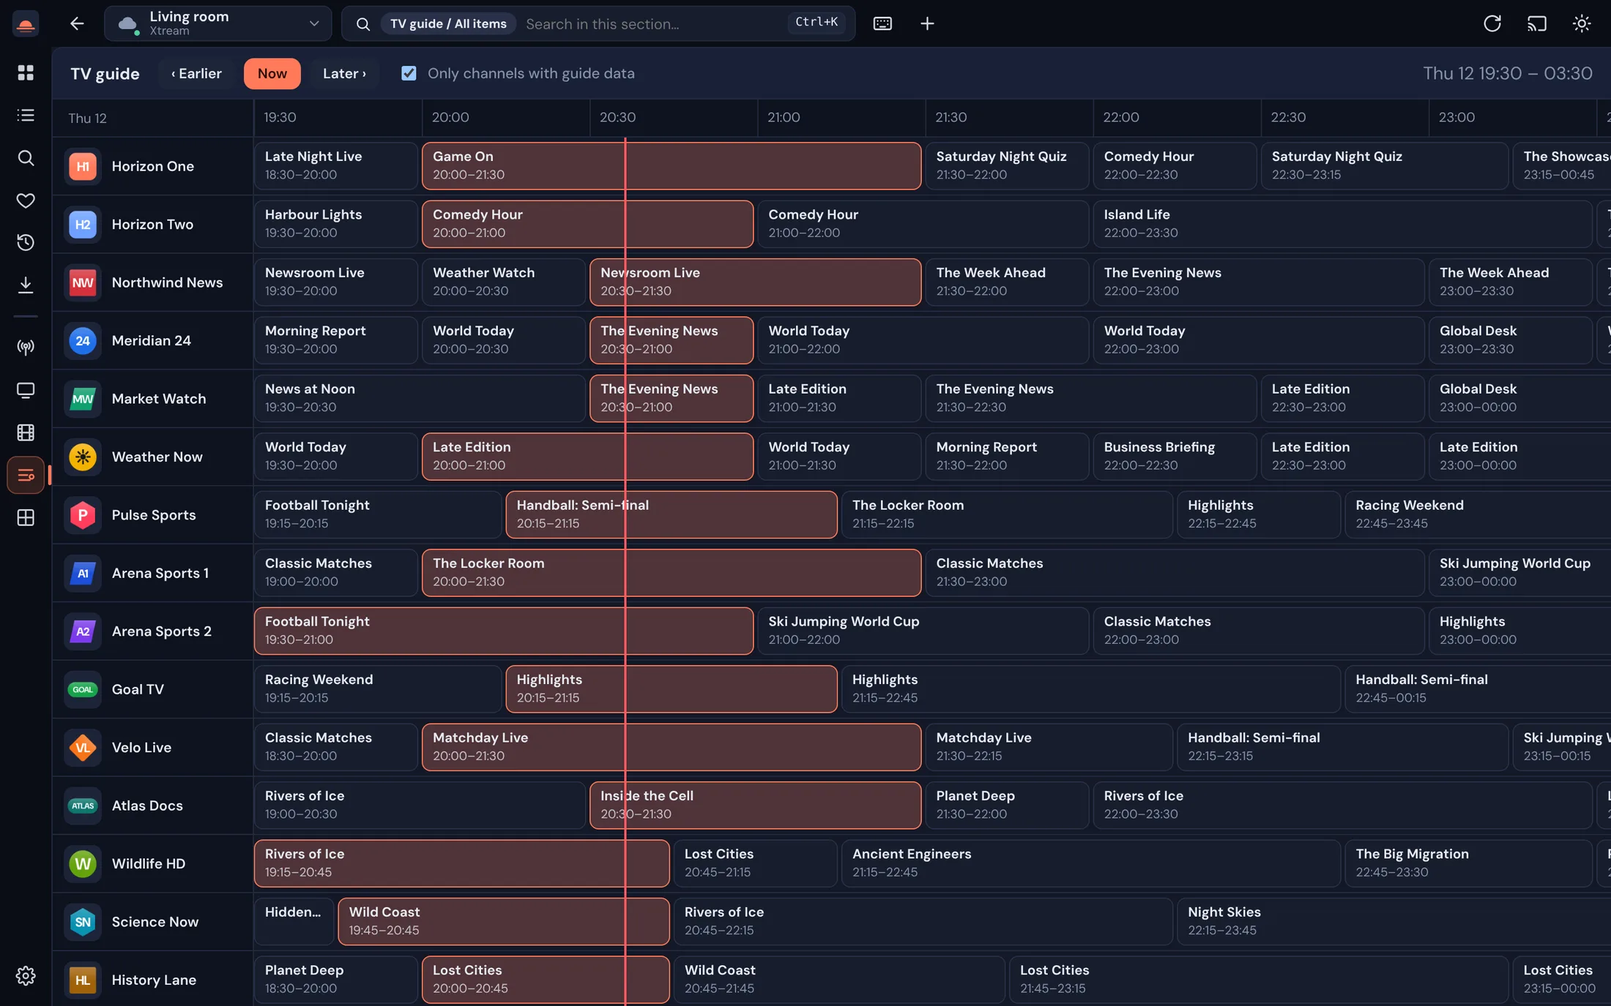
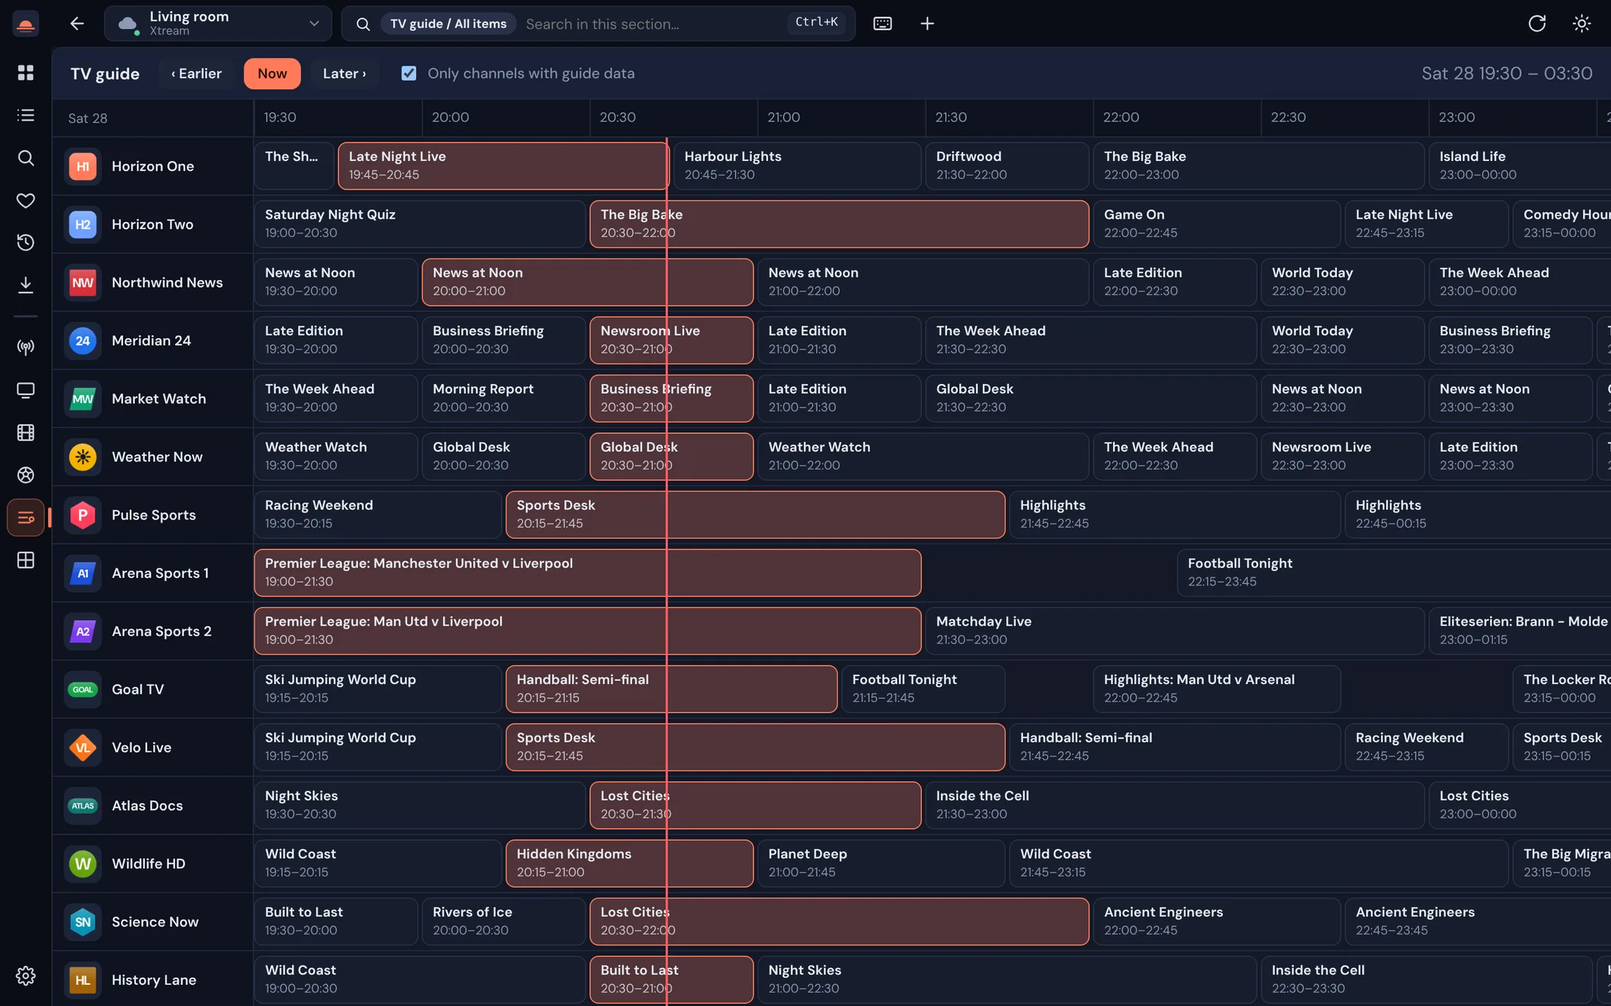
No more IPTVnator; README and the website for the Football page, the TV app and the time format; new screenshots
- README: the Football page (how it finds matches, their channels, replays), the TV's start screen, 24/12-hour clock.
- Website: a Football section and menu link, the matches in the intro and the share picture, cards for the TV app
  and picture-in-picture; every screenshot taken again with the app as it is now (the demo guide has a few matches).
- Football: a match's airings on several channels are one row whatever each channel calls it; a later match that
  says it is live is kept among the matches.

diff --git a/docs/index.html b/docs/index.html
@@ -4,11 +4,11 @@
   <meta charset="utf-8">
   <meta name="viewport" content="width=device-width, initial-scale=1">
   <title>AG Horizon – a calm desktop player for your IPTV playlists</title>
-  <meta name="description" content="Live TV with a real programme guide, movies and series with posters and resume, multi view and picture mirroring. Free for Windows, macOS, Linux and Android TV. Works with your own Xtream Codes or M3U playlists.">
+  <meta name="description" content="Live TV with a real programme guide, movies and series with posters and resume, your football team's matches, multi view and picture mirroring. Free for Windows, macOS, Linux and Android TV. Works with your own Xtream Codes or M3U playlists.">
   <meta name="theme-color" content="#0b1220">
   <meta property="og:type" content="website">
   <meta property="og:title" content="AG Horizon – a calm desktop player for your IPTV playlists">
-  <meta property="og:description" content="Live TV with a real guide, movies and series, multi view and picture mirroring. Free for Windows, macOS, Linux and Android TV.">
+  <meta property="og:description" content="Live TV with a real guide, movies and series, your team's matches, multi view and picture mirroring. Free for Windows, macOS, Linux and Android TV.">
   <meta property="og:image" content="https://andreas-graesmo.github.io/AGHorizon/img/og.png">
   <meta property="og:url" content="https://andreas-graesmo.github.io/AGHorizon/">
   <meta name="twitter:card" content="summary_large_image">
@@ -24,6 +24,7 @@
       <nav class="nav-links" aria-label="Main">
         <a href="#live">Live TV</a>
         <a href="#library">Movies &amp; series</a>
+        <a href="#football">Football</a>
         <a href="#multiview">Multi view</a>
         <a href="#sync">Sync</a>
         <a href="#faq">FAQ</a>
@@ -38,7 +39,7 @@
       <div class="wrap hero-copy">
         <p class="eyebrow">Free for Windows, macOS, Linux &amp; Android TV</p>
         <h1>All your TV.<br><span>One calm place.</span></h1>
-        <p class="lede">AG Horizon turns your Xtream Codes or M3U playlist into a proper TV experience: live channels with a real programme guide, movies and series with posters and “Resume”, four pictures at once, and picture mirroring.</p>
+        <p class="lede">AG Horizon turns your Xtream Codes or M3U playlist into a proper TV experience: live channels with a real programme guide, movies and series with posters and “Resume”, your football team’s matches, four pictures at once, and picture mirroring.</p>
         <div class="cta">
           <a class="btn btn-primary" id="dlMain" href="https://github.com/Andreas-Graesmo/AGHorizon/releases/latest">
             <svg class="i" aria-hidden="true"><use href="#i-download"/></svg><span id="dlMainLabel">Download AG Horizon</span>
@@ -93,6 +94,23 @@
           </ul>
         </div>
         <figure class="shot"><img src="img/guide.webp" width="2200" height="1375" loading="lazy" alt="The TV guide: a grid of channels and their programmes through the evening, with a red line marking the current time"></figure>
+      </div>
+    </section>
+
+    <!-- ───────────── football ───────────── -->
+    <section class="feature" id="football">
+      <div class="wrap feature-in">
+        <div class="copy">
+          <p class="eyebrow">Football</p>
+          <h2>Never miss your team.</h2>
+          <p>Pick your teams and AG Horizon finds their matches in your guide and your channels: what’s on now, what’s coming up, and every channel showing it. One button and you’re watching.</p>
+          <ul class="ticks">
+            <li>Knows every name a team goes by: Man Utd, MUFC, “MUN v LIV”…</li>
+            <li>The same match on five channels is one row, with a button for each</li>
+            <li>Replays and highlights kept apart from the real thing</li>
+          </ul>
+        </div>
+        <figure class="shot"><img src="img/football.webp" width="2200" height="1375" loading="lazy" alt="The Football page: Manchester United live on two channels now, an FA Cup match tomorrow, highlights kept apart, and Brann – Molde later tonight"></figure>
       </div>
     </section>
 
@@ -160,6 +178,11 @@
             <p>Send the picture to a TV or another monitor. It mirrors the decoded picture, so it uses no extra connection and stays in sync.</p>
           </article>
           <article class="card">
+            <svg class="ci" aria-hidden="true"><use href="#i-pip"/></svg>
+            <h3>Picture-in-picture</h3>
+            <p>Keep the match in a small window on top of everything else while you work, and click back to the full player.</p>
+          </article>
+          <article class="card">
             <svg class="ci" aria-hidden="true"><use href="#i-chip"/></svg>
             <h3>Plays the awkward ones</h3>
             <p>HEVC video or DTS / AC-3 sound that won’t play? Compatibility mode converts it on the fly with the built-in ffmpeg.</p>
@@ -174,6 +197,11 @@
             <svg class="ci" aria-hidden="true"><use href="#i-cc"/></svg>
             <h3>Subtitles</h3>
             <p>Built-in subtitle tracks, or find them on OpenSubtitles.com right from the player.</p>
+          </article>
+          <article class="card">
+            <svg class="ci" aria-hidden="true"><use href="#i-tv"/></svg>
+            <h3>On the TV too</h3>
+            <p>The same app on Android TV, made for the remote. It plays in the TV’s own player, with its hardware decoders, and the sun rises as it starts.</p>
           </article>
           <article class="card">
             <svg class="ci" aria-hidden="true"><use href="#i-list"/></svg>
@@ -300,6 +328,7 @@
   <svg width="0" height="0" style="position:absolute" aria-hidden="true">
     <symbol id="i-download" viewBox="0 0 24 24"><path d="M12 3v12m0 0-5-5m5 5 5-5M4 20h16" fill="none" stroke="currentColor" stroke-width="2" stroke-linecap="round" stroke-linejoin="round"/></symbol>
     <symbol id="i-screens" viewBox="0 0 24 24"><path d="M7 6V5a2 2 0 0 1 2-2h11a2 2 0 0 1 2 2v7a2 2 0 0 1-2 2h-1M4 9h10a2 2 0 0 1 2 2v5a2 2 0 0 1-2 2H4a2 2 0 0 1-2-2v-5a2 2 0 0 1 2-2ZM6 21.5h6M9 18v3.5" fill="none" stroke="currentColor" stroke-width="2" stroke-linecap="round" stroke-linejoin="round"/></symbol>
+    <symbol id="i-pip" viewBox="0 0 24 24"><path d="M21 11V6a2 2 0 0 0-2-2H5a2 2 0 0 0-2 2v12a2 2 0 0 0 2 2h6" fill="none" stroke="currentColor" stroke-width="1.8" stroke-linecap="round" stroke-linejoin="round"/><rect x="13.5" y="13.5" width="8" height="6" rx="1.2" fill="none" stroke="currentColor" stroke-width="1.8"/></symbol>
     <symbol id="i-chip" viewBox="0 0 24 24"><path d="M7 4h10a3 3 0 0 1 3 3v10a3 3 0 0 1-3 3H7a3 3 0 0 1-3-3V7a3 3 0 0 1 3-3Zm2 5h6v6H9zM9 1v3m6-3v3M9 20v3m6-3v3M1 9h3m-3 6h3m16-6h3m-3 6h3" fill="none" stroke="currentColor" stroke-width="2" stroke-linecap="round" stroke-linejoin="round"/></symbol>
     <symbol id="i-cc" viewBox="0 0 24 24"><path d="M4 5h16a2 2 0 0 1 2 2v10a2 2 0 0 1-2 2H4a2 2 0 0 1-2-2V7a2 2 0 0 1 2-2Zm6.5 5.5a2.5 2.5 0 1 0 0 3m7-3a2.5 2.5 0 1 0 0 3" fill="none" stroke="currentColor" stroke-width="2" stroke-linecap="round" stroke-linejoin="round"/></symbol>
     <symbol id="i-list" viewBox="0 0 24 24"><path d="M8 6h13M8 12h13M8 18h13M3 6h.01M3 12h.01M3 18h.01" fill="none" stroke="currentColor" stroke-width="2" stroke-linecap="round"/></symbol>

diff --git a/public/js/football-core.js b/public/js/football-core.js
@@ -262,8 +262,8 @@ function fbSplitReplays(rows) {
 
 // For one team: a team plays one match at a time, and at most one in the guide's day and a half. So its match is
 // one stretch of time: the airings that overlap (the same match starts at 15:00 on one channel and 15:30 on
-// another, with a different build-up), between the same teams. The stretch is the one said to be live, else the one
-// on the most channels at once (a live match is carried widely; a replay mostly by one channel). Everything else
+// another, with a different build-up), between the same teams: the stretch on the most channels at once (a live
+// match is carried widely; a replay mostly by one channel); and any other airing that says it is live. Everything else
 // about the team is apart: replays (said so, a club's channel, a short slot, another day or opponent) and shows
 // (a studio, a magazine: no match in the title).
 // -> { main: rows, replays: rows }
@@ -287,15 +287,25 @@ function fbSplitTeam(rows, team) {
     for (const x of cands.slice(i, j)) {
       const k = byKey.get(x.key) || { xs: [], score: 0 };
       k.xs.push(x);
-      k.score += (x.live ? 1000 : 0) + x.r.chs.length;
+      k.score += x.r.chs.length;   // (an airing that says it is live is added below, whatever this picks)
       byKey.set(x.key, k);
     }
     for (const k of byKey.values()) if (k.score > bestScore) { bestScore = k.score; best = k.xs; }
     i = j;
   }
   const main = new Set(best || []);
-  const out = { main: [], replays: [] };
-  for (const x of info) (main.has(x) ? out.main : out.replays).push(x.r);
+  // a match that says it is live is a match too (the next one, on another day; a replay rarely says so)
+  for (const x of cands) if (x.live && !main.has(x)) main.add(x);
+  // one row per match: its airings together, whatever each channel calls it ("Manchester United v Liverpool",
+  // "Man Utd v Liverpool"), from the first one's start
+  const merged = new Map();
+  for (const x of [...main].sort((a, b) => a.r.p[0] - b.r.p[0])) {
+    const key = [...merged.keys()].find((k) => k.key === x.key && x.r.p[0] < k.end) ;
+    if (key) { const m = merged.get(key); for (const c of x.r.chs) if (!m.chs.includes(c)) m.chs.push(c); key.end = Math.max(key.end, x.r.p[1]); }
+    else merged.set({ key: x.key, end: x.r.p[1] }, { p: x.r.p, chs: [...x.r.chs] });
+  }
+  const out = { main: [...merged.values()], replays: [] };
+  for (const x of info) if (!main.has(x)) out.replays.push(x.r);
   return out;
 }
 

diff --git a/scripts/screenshots/capture.js b/scripts/screenshots/capture.js
@@ -202,6 +202,17 @@ async function main(only) {
       await save(page, 'multiview');
       await ctx.close();
     },
+    async football() {
+      const { page, ctx } = await open({ 'tuner.fbTeams': ['man-utd', 'brann'] });
+      await hideCursor(page);
+      await page.evaluate(() => openWorkspace('demo', 'live'));
+      await page.waitForFunction(() => state.epgState.demo === 'ready', null, { timeout: 30000 });
+      await page.evaluate(() => go('football'));
+      await page.waitForFunction(() => document.querySelectorAll('.fb-row').length >= 3, null, { timeout: 30000 });
+      await settle(page, 800);
+      await save(page, 'football');
+      await ctx.close();
+    },
     async light() {
       const { page, ctx } = await open({ 'tuner.theme': 'light', 'tuner.lightPalette': 'bright', 'tuner.accent': 'blue' });
       await hideCursor(page);
@@ -229,7 +240,7 @@ async function main(only) {
       p { font-size: 22px; color: #c3cbdc; margin: 22px 0 0; line-height: 1.4; }
       .s { position: absolute; left: 580px; top: 92px; width: 860px; border-radius: 14px; box-shadow: 0 30px 80px rgba(0,0,0,.7), 0 0 0 1px rgba(255,255,255,.1); }
     </style></head><body><div class="t"><div class="b"><img src="icon.svg">AG Horizon</div>
-      <h1>All your TV.<br><span>One calm place.</span></h1><p>Live TV with a real guide, movies and series, multi view. Free for Windows, macOS &amp; Linux.</p></div>
+      <h1>All your TV.<br><span>One calm place.</span></h1><p>Live TV with a real guide, movies and series, your team’s matches. Free for Windows, macOS, Linux &amp; Android TV.</p></div>
       <img class="s" src="img/dashboard.webp"></body></html>`);
     await page.goto('file://' + path.join(docs, '.og.html'));
     await page.evaluate(() => document.fonts.ready);

diff --git a/scripts/screenshots/demo-server.js b/scripts/screenshots/demo-server.js
@@ -32,8 +32,25 @@ function schedule(chIndex) {
     out.push({ start: t, stop: t + len * 60e3, title: shows[Math.floor(r() * shows.length)], desc: SHOW_DESC[Math.floor(r() * SHOW_DESC.length)], ch: name });
     t += len * 60e3;
   }
+  // a few real matches on the sports channels, for the Football page: one on now (on two channels), one later, highlights
+  const m = MATCHES[name];
+  if (m) {
+    const hour = Math.floor(Date.now() / 3600e3) * 3600e3;
+    for (const [from, mins, title, desc] of m) {
+      const a = hour + from * 3600e3, b = a + mins * 60e3;
+      for (let i = out.length - 1; i >= 0; i--) if (out[i].start < b && out[i].stop > a) out.splice(i, 1);
+      out.push({ start: a, stop: b, title, desc, ch: name });
+    }
+    out.sort((x, y) => x.start - y.start);
+  }
   return out;
 }
+const MATCHES = {
+  'Arena Sports 1': [[-1, 150, 'Premier League: Manchester United v Liverpool', 'Live coverage from Old Trafford.']],
+  'Arena Sports 2': [[-1, 150, 'Premier League: Man Utd v Liverpool', 'Live: the big match of the weekend.'], [3, 135, 'Eliteserien: Brann - Molde', 'Direkte fra Brann Stadion.']],
+  'Goal TV': [[2, 45, 'Highlights: Man Utd v Arsenal', 'The goals and the talking points.']],
+  'Pulse Sports': [[20, 120, 'FA Cup: Chelsea v Manchester United', 'Live coverage of the fourth round.']],
+};
 const xmlTime = (ms) => new Date(ms).toISOString().replace(/[-:T]/g, '').slice(0, 14) + ' +0000';
 const xesc = (s) => String(s).replace(/[&<>"]/g, (c) => ({ '&': '&amp;', '<': '&lt;', '>': '&gt;', '"': '&quot;' }[c]));
 

diff --git a/docs/style.css b/docs/style.css
@@ -117,7 +117,7 @@ code { font: .9em ui-monospace, SFMono-Regular, Menlo, Consolas, monospace; back
 .codec { display: flex; flex-wrap: wrap; gap: 6px; align-items: center; font-size: 13px !important; }
 .codec span { font-weight: 700; color: var(--text); background: var(--deep); border: 1px solid var(--line); padding: 2px 8px; border-radius: 6px; }
 .codec span:nth-child(2n) { color: var(--accent); }
-.card-light { padding: 0; overflow: hidden; grid-column: span 2; display: flex; }
+.card-light { padding: 0; overflow: hidden; grid-column: 1 / -1; display: flex; }   /* under the nine small cards, across */
 .card-light img { width: 100%; height: 100%; object-fit: cover; object-position: top left; }
 .swatches { display: flex; flex-wrap: wrap; gap: 10px; margin-top: 16px; }
 .swatches button { width: 30px; height: 30px; border-radius: 50%; border: 0; background: var(--c); cursor: pointer; box-shadow: 0 0 0 2px var(--panel), 0 0 0 2px transparent; transition: box-shadow .2s, transform .15s; }
@@ -179,7 +179,7 @@ details p { color: #c3cbdc; padding: 0 0 22px; }
   .feature-in, .feature.flip .feature-in { grid-template-columns: 1fr; }
   .feature.flip .copy { order: 0; }
   .cards { grid-template-columns: 1fr 1fr; }
-  .card-light { grid-column: span 2; }
+  .card-light { grid-column: 1 / -1; }
   .platforms { grid-template-columns: 1fr; }
 }
 @media (max-width: 720px) {

diff --git a/test/football.test.js b/test/football.test.js
@@ -123,6 +123,10 @@ test("a team's match: one stretch of time, whatever the channel's build-up; the 
     row(Date.parse('2026-11-29T07:00:00Z'), Date.parse('2026-11-29T09:00:00Z'), 'Fudbal – Liga šampiona: Sporting – Manchester United', 'Na predlog francuskog novinara…'),
     row(Date.parse('2026-11-29T13:40:00Z'), Date.parse('2026-11-29T15:35:00Z'), 'Fussball: Sporting Clube de Portugal – Manchester United', 'UEFA Champions League, 5. Spieltag – Deutsch.'),
   ], mu);
-  assert.deepStrictEqual(s.main.map((r) => r.p[2]), ['Fudbal – Engleska liga: Manchester United – Brentford', 'Manchester United vs Brentford – English Premier League 2026/27']);
+  // one row: the two airings of the match together, with both channels
+  assert.deepStrictEqual(s.main.map((r) => [r.p[2], r.chs.length]), [['Fudbal – Engleska liga: Manchester United – Brentford', 3]]);
   assert.strictEqual(s.replays.length, 5);
+  // a later match that says it is live is a match too
+  const s2 = fbSplitTeam([row(at(15, 0), at(17, 0), 'Man Utd v Brentford', ''), row(Date.parse('2026-11-29T16:00:00Z'), Date.parse('2026-11-29T18:00:00Z'), 'FA Cup: Chelsea v Manchester United', 'Live coverage of the fourth round.')], mu);
+  assert.strictEqual(s2.main.length, 2);
 });

diff --git a/public/style.css b/public/style.css
@@ -1,4 +1,4 @@
-/* AG Horizon – styles. IPTVnator-inspired: near-black chrome, navy surfaces, one accent colour (set from JS). */
+/* AG Horizon – styles: near-black chrome, navy surfaces, one accent colour (set from JS). */
 
 /* DM Sans, bundled (SIL Open Font License, fonts/OFL.txt): Google Fonts' latin and latin-ext files, so start-up doesn't wait for the internet */
 @font-face { font-family: 'DM Sans'; font-style: normal; font-weight: 400 800; font-display: swap; src: url(fonts/dm-sans-latin-ext.woff2) format('woff2');

diff --git a/README.md b/README.md
@@ -1,16 +1,17 @@
 # AG Horizon
 
-A desktop IPTV player (Windows, macOS, Linux) built with Tauri (from 3.1; 2.x was built with Electron), laid out like IPTVnator. It also runs on **Android TV**, steered with the remote (see [Android TV](#android-tv)).
+A desktop IPTV player (Windows, macOS, Linux) built with Tauri (from 3.1; 2.x was built with Electron). It also runs on **Android TV**, steered with the remote (see [Android TV](#android-tv)).
 
 - **Dashboard** with a large slideshow, *Trending this week* (from TMDB, matched to your playlists), live channels on your favorites, and what you watched recently
 - **Live TV** – channel list (All / Groups / Favorites, numbers, search), the player, and a programme-guide column for the channel you watch; plus a full TV-guide grid
-- **Movies and series** – category list with poster grids, sorting, detail pages with plot, cast, seasons and episodes, "Resume", auto-play of the next episode
+- **Movies and series** – category list with poster grids, sorting, detail pages with plot, cast (with photos and sharp posters from TMDB), seasons and episodes, "Resume", auto-play of the next episode
+- **Football** – pick your teams and see their matches from the TV guide and the channel names: what's on now, what's coming up, and the channels showing it (see below)
 - **Several playlists** – Xtream Codes (server + login, or paste a `get.php?username=…&password=…` link), M3U/M3U8 by URL or file; drag an `.m3u` file onto the window to add it
 - **Mirror picture** – show the same picture onto another monitor or TV (see below)
 - **Compatibility mode** – HEVC video and DTS / AC-3 audio are converted on the fly with ffmpeg
 - **Audio language and subtitles** – switch between a video's languages, with a preferred language for each (see below)
 - **Sync between computers** – Recently viewed, where you stopped and favorites, end-to-end encrypted with a sync code (see below)
-- Favorites and recently viewed across playlists, global search, command palette (**Ctrl K**), light / dark theme with accent colours, mini player that keeps playing while you browse
+- Favorites and recently viewed across playlists, global search, command palette (**Ctrl K**), light / dark theme with accent colours, 24- or 12-hour clock, mini player that keeps playing while you browse
 - Keyboard: press **?** in the app for the full list
 
 ## Download
@@ -35,7 +36,7 @@ Building from source and publishing releases: see [RELEASING.md](RELEASING.md).
 
 ## Android TV
 
-The same app on a TV: Android TV and Google TV boxes and sets with Android 7 or newer. (Fire TV runs Android apps too, but the app hasn't been tried there.) It has the dashboard, Live TV with the guide, movies and series, favorites, recently viewed, search, several playlists and sync (AG Horizon cloud).
+The same app on a TV: Android TV and Google TV boxes and sets with Android 7 or newer. (Fire TV runs Android apps too, but the app hasn't been tried there.) It has the dashboard, Live TV with the guide, movies and series, the Football page, favorites, recently viewed, search, several playlists and sync (AG Horizon cloud). It opens with the AG Horizon sun rising over the horizon while it starts.
 
 **Installing.** Download `AG-Horizon-TV-<version>.apk` from the [releases page](https://github.com/Andreas-Graesmo/AGHorizon/releases/latest) and install it on the TV. The usual ways: the *Downloader* app on the TV (type the address of the file), *Send files to TV* from a phone, or `adb install` from a computer. The TV asks once whether that app may install apps. After that the app updates itself: it tells you when there is a new version, downloads it, and hands it to Android's installer, which asks you once more (**Settings › About & updates**). Your playlists, favorites and history are kept.
 
@@ -58,6 +59,17 @@ The same app on a TV: Android TV and Google TV boxes and sets with Android 7 or 
 **Size.** **Settings › Appearance › Size** makes everything larger or smaller.
 
 **If pages look wrong** (missing colours, broken layout), the TV's *Android System WebView* is old: the app needs version 111 or newer. Update it in the TV's app store.
+
+## Football
+
+The ball in the left rail (under Live TV, Series and Movies) opens your teams' matches.
+
+- **Your teams:** pick as many as you like, from England, Norway, Spain, Italy, Germany, France and the national teams. Each gets its own part of the page: the channels named after a match first, then what's **on now**, what's **coming up**, and apart from those, **replays, highlights and shows**.
+- **Where it looks:** the TV guide of your playlists and the channel names (many providers have match channels such as "EPL 03: Man Utd vs Liverpool 20:00", often without a guide). The guide covers about the next day and a half, so a match further ahead shows up when the guide has it.
+- **Every name a team goes by:** Manchester United is found as Manchester United, Man United, Man Utd, Man. Utd, MUFC, ManU, Red Devils and "MUN v LIV". Words that also mean something else (Brann, Viking, Arsenal, Norway) only count when the text is about football ("Brann – Molde", not "Brann i Bergen"), and other teams with the same words (Man City, Leeds United) never do.
+- **One match, all its channels:** the same match on several channels (an HD and an SD feed, a 15:00 and a 15:30 start with different build-ups) is one row with a button per channel. Pick one and it plays.
+- **Replays are kept apart:** what says so (replay, highlights, classic, "(R)", reprise…), short slots, a club's own channel (MUTV, LFC TV: only its live matches, such as pre-season friendlies, count), and the team's other airings in the guide's day and a half. A replay that shows once, in a long slot and without any mark, looks like a live match in the guide: that one can still show among the matches.
+- **Search** for any team (by any of its names) or for any words, such as "Champions League", from the box at the top.
 
 ## Sources and startup
 
@@ -146,6 +158,8 @@ public/js/boot.js       start-up, drag & drop
 public/mirror.html/js   the mirror window
 scripts/get-vendor.js   optional: download player libraries locally
 public/js/tv.js         Android TV: the remote, what a TV leaves out, handing playback to the TV's player
+public/js/football.js   the Football page
+public/js/football-core.js  the teams and their names, finding their matches in the guide and channel names
 unicode-ln.js           letters and numbers, for the Node.js inside the Android TV app (made by scripts/gen-unicode-ln.js)
 android/                the Android TV app: WebView, the Rust server (server-rs/jni), ExoPlayer
 android/ci/smoke.js     tries the Android TV app on an emulator
